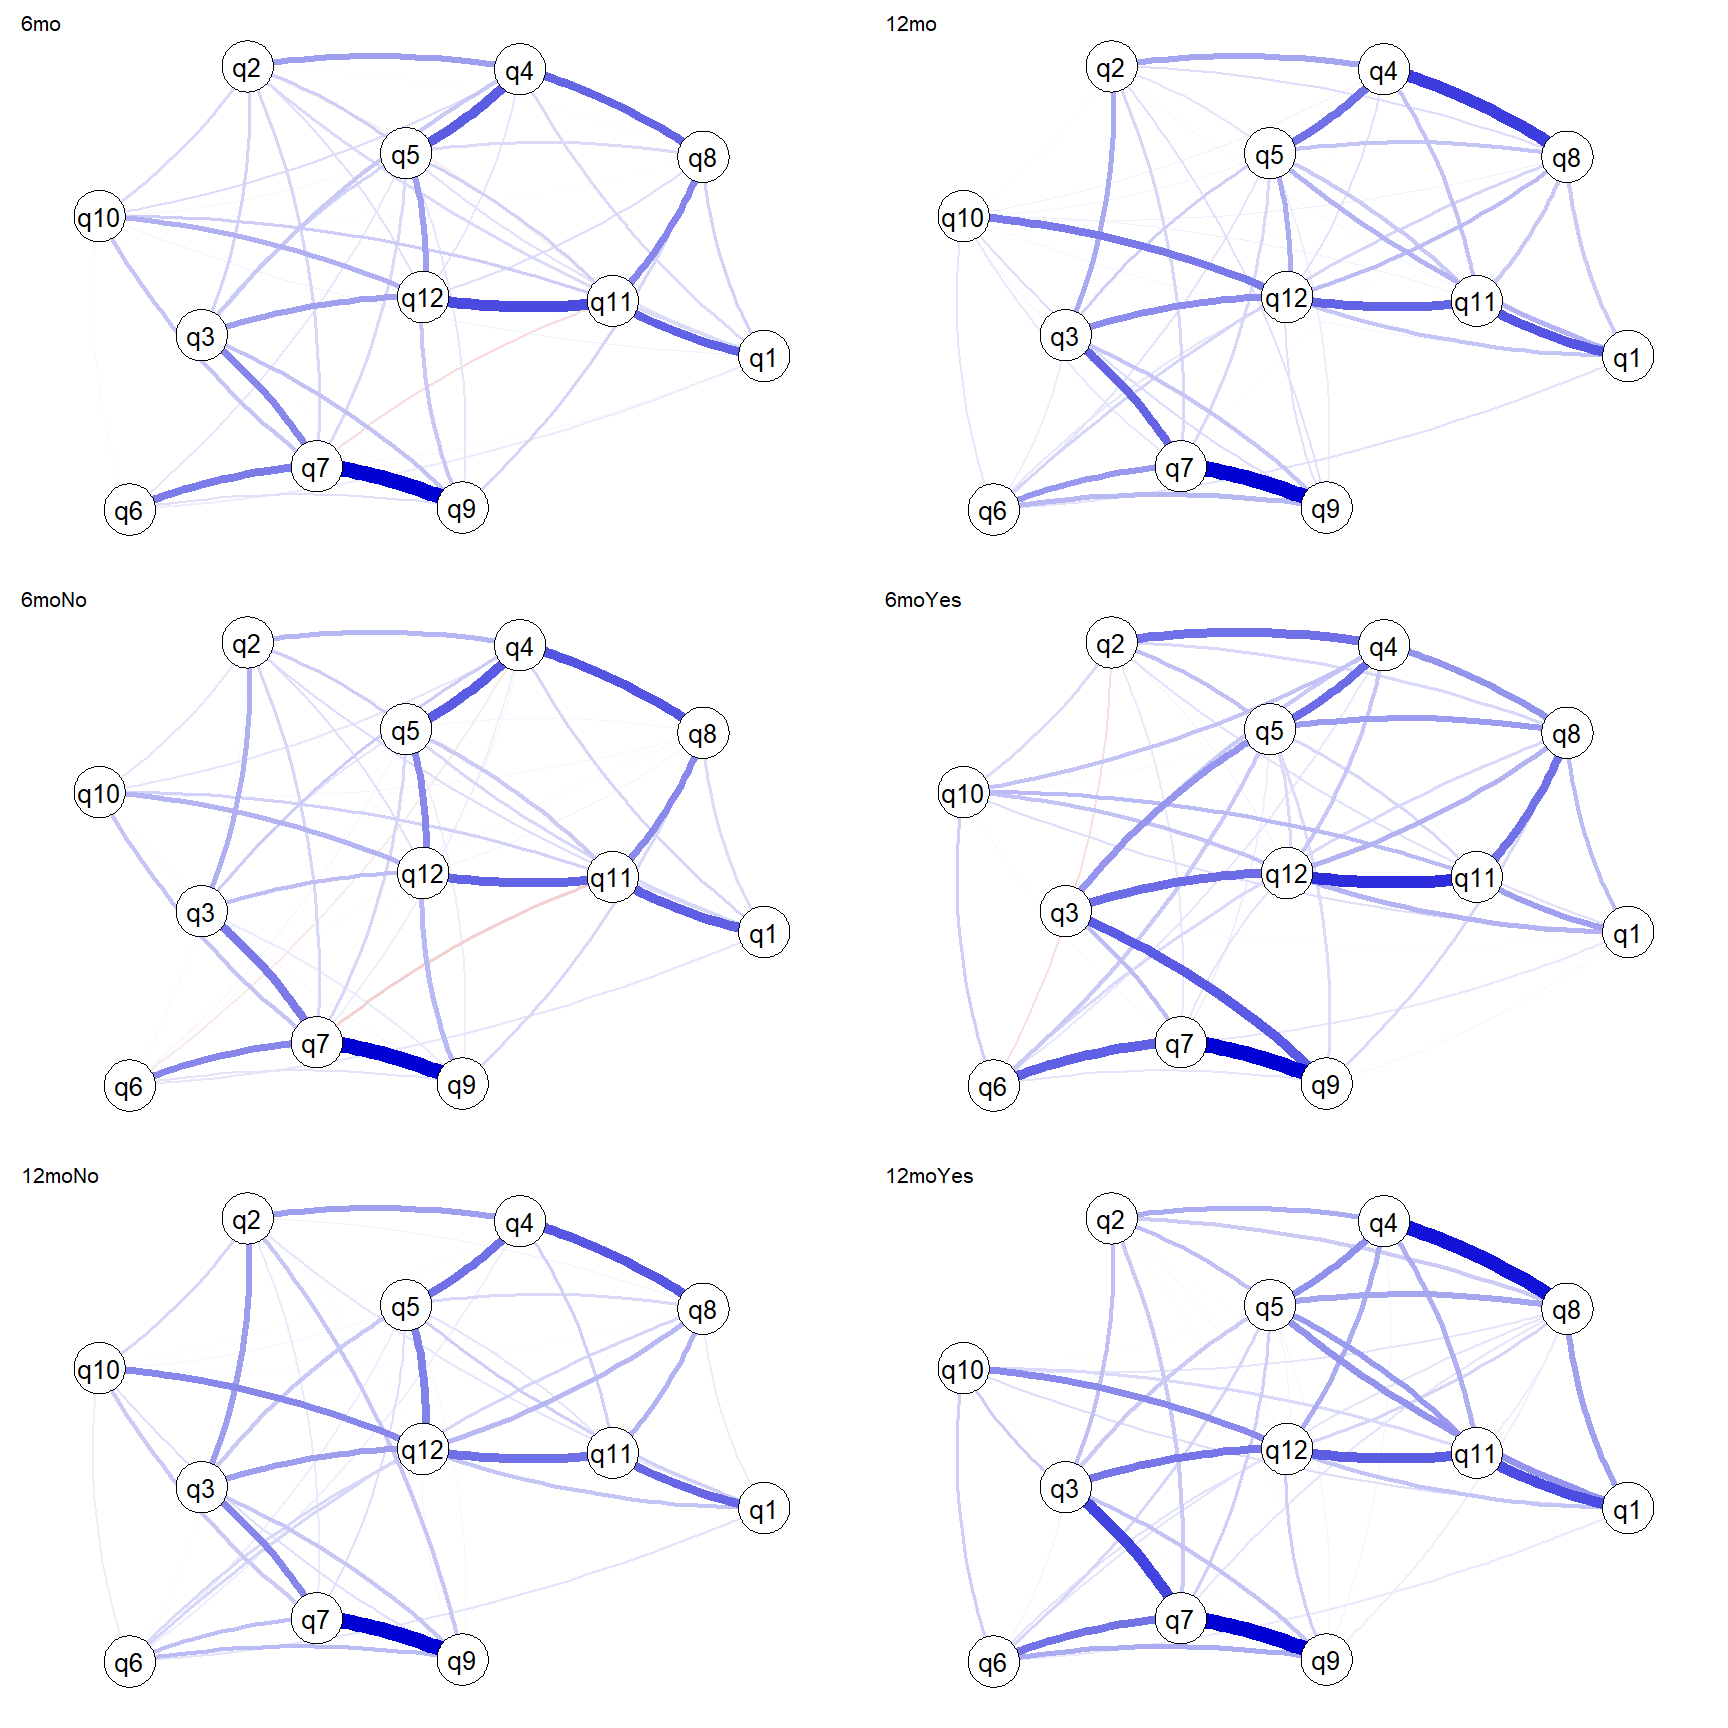
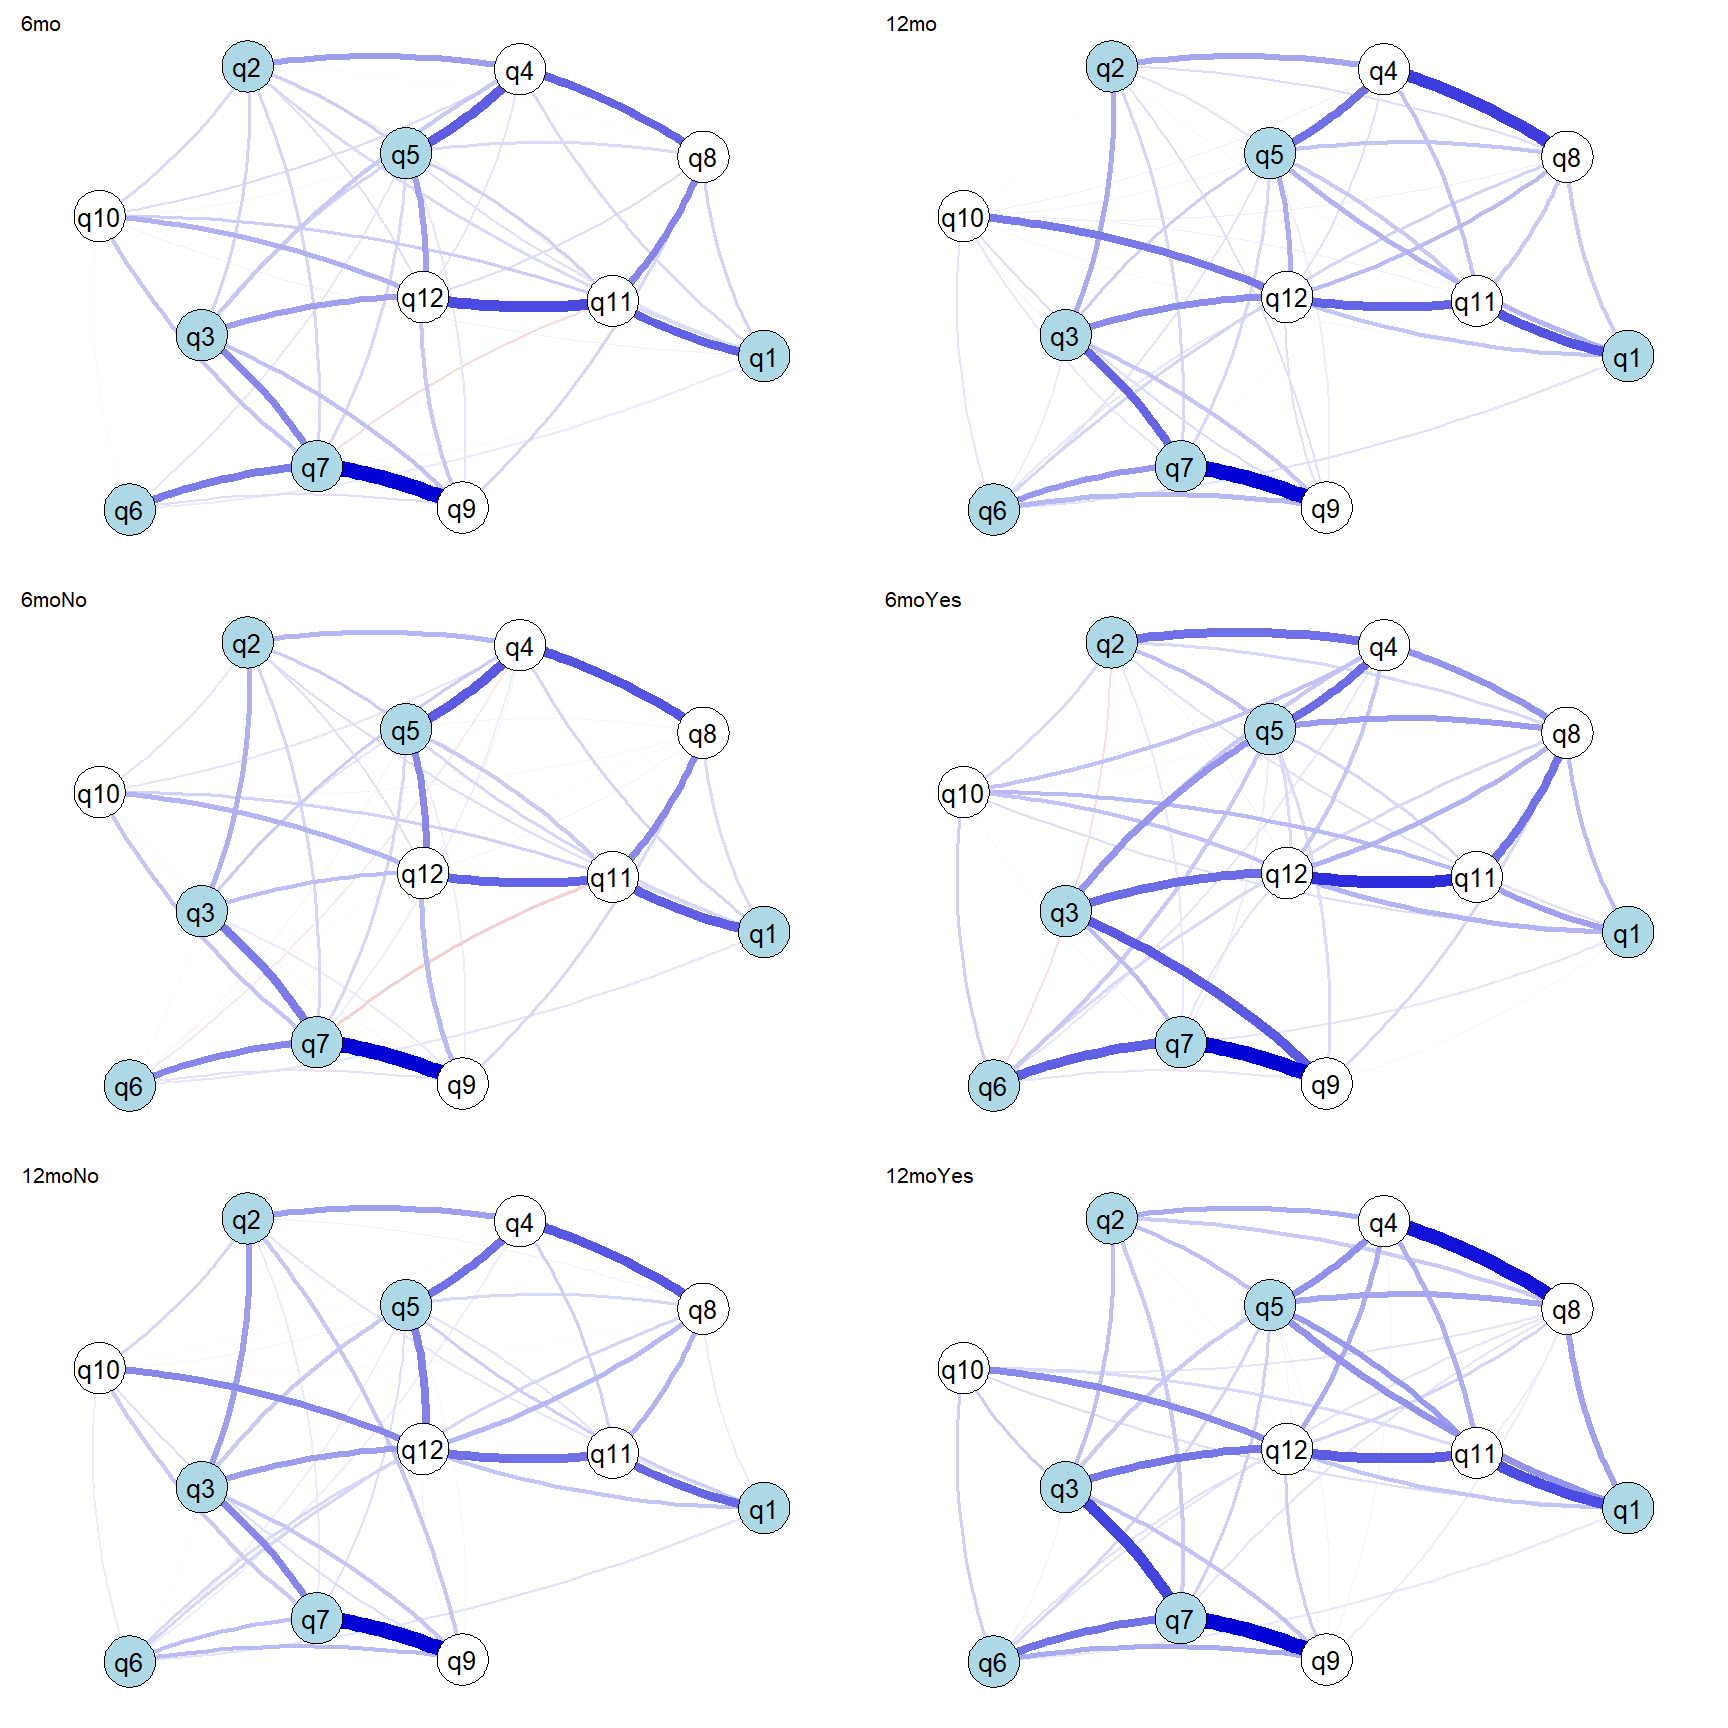
add color to nodes

diff --git a/docs/2-analysis.html b/docs/2-analysis.html
@@ -15,6 +15,7 @@
 
 <title>2-analysis</title>
 
+<script src="site_libs/header-attrs-2.6/header-attrs.js"></script>
 <script src="site_libs/jquery-1.11.3/jquery.min.js"></script>
 <meta name="viewport" content="width=device-width, initial-scale=1" />
 <link href="site_libs/bootstrap-3.3.5/css/cosmo.min.css" rel="stylesheet" />
@@ -37,6 +38,8 @@ div.section {
   padding-top: 12px;
 }
 </style>
+
+
 
 <style type="text/css">
   code{white-space: pre-wrap;}
@@ -417,7 +420,7 @@ div.tocify {
 <div class="tab-content">
 <div id="summary" class="tab-pane fade in active">
 <p>
-<strong>Last updated:</strong> 2021-02-23
+<strong>Last updated:</strong> 2021-04-20
 </p>
 <p>
 <strong>Checks:</strong> <span class="glyphicon glyphicon-ok text-success" aria-hidden="true"></span> 6 <span class="glyphicon glyphicon-exclamation-sign text-danger" aria-hidden="true"></span> 1
@@ -508,16 +511,16 @@ This reproducible <a href="http://rmarkdown.rstudio.com">R Markdown</a> analysis
 <div class="panel panel-default">
 <div class="panel-heading">
 <p class="panel-title">
-<a data-toggle="collapse" data-parent="#workflowr-checks" href="#strongRepositoryversionstrongahrefhttpsgithubcombernardliewACLRSILaTrobetree1b00161c4a99919fb20d30a8cdf81f1f628d6a38targetblank1b00161a"> <span class="glyphicon glyphicon-ok text-success" aria-hidden="true"></span> <strong>Repository version:</strong> <a href="https://github.com/bernard-liew/ACL-RSI-La-Trobe-/tree/1b00161c4a99919fb20d30a8cdf81f1f628d6a38" target="_blank">1b00161</a> </a>
+<a data-toggle="collapse" data-parent="#workflowr-checks" href="#strongRepositoryversionstrongahrefhttpsgithubcombernardliewACLRSILaTrobetree89ef5ec4deb29842442128011f89805f2752214ctargetblank89ef5eca"> <span class="glyphicon glyphicon-ok text-success" aria-hidden="true"></span> <strong>Repository version:</strong> <a href="https://github.com/bernard-liew/ACL-RSI-La-Trobe-/tree/89ef5ec4deb29842442128011f89805f2752214c" target="_blank">89ef5ec</a> </a>
 </p>
 </div>
[2 lines of base64/hex data omitted]
 <div class="panel-body">
 <p>
 Great! You are using Git for version control. Tracking code development and connecting the code version to the results is critical for reproducibility.
 </p>
 <p>
-The results in this page were generated with repository version <a href="https://github.com/bernard-liew/ACL-RSI-La-Trobe-/tree/1b00161c4a99919fb20d30a8cdf81f1f628d6a38" target="_blank">1b00161</a>. See the <em>Past versions</em> tab to see a history of the changes made to the R Markdown and HTML files.
+The results in this page were generated with repository version <a href="https://github.com/bernard-liew/ACL-RSI-La-Trobe-/tree/89ef5ec4deb29842442128011f89805f2752214c" target="_blank">89ef5ec</a>. See the <em>Past versions</em> tab to see a history of the changes made to the R Markdown and HTML files.
 </p>
 <p>
 Note that you need to be careful to ensure that all relevant files for the analysis have been committed to Git prior to generating the results (you can use <code>wflow_publish</code> or <code>wflow_git_commit</code>). workflowr only checks the R Markdown file, but you know if there are other scripts or data files that it depends on. Below is the status of the Git repository when the results were generated:
@@ -526,9 +529,7 @@ Note that you need to be careful to ensure that all relevant files for the analy
 Ignored files:
     Ignored:    .Rhistory
     Ignored:    .Rproj.user/
-
-Untracked files:
-    Untracked:  output/nw_res.RDS
+    Ignored:    manuscript/
 
 Unstaged changes:
     Modified:   analysis/2-analysis.Rmd
@@ -570,6 +571,57 @@ Message
 </tr>
 </thead>
 <tbody>
+<tr>
+<td>
+Rmd
+</td>
+<td>
+<a href="https://github.com/bernard-liew/ACL-RSI-La-Trobe-/blob/89ef5ec4deb29842442128011f89805f2752214c/analysis/2-analysis.Rmd" target="_blank">89ef5ec</a>
+</td>
+<td>
+Bernard
+</td>
+<td>
+2021-04-20
+</td>
+<td>
+tidied codes
+</td>
+</tr>
+<tr>
+<td>
+Rmd
+</td>
+<td>
+<a href="https://github.com/bernard-liew/ACL-RSI-La-Trobe-/blob/0593a54f2cb5b3bd394b1e7cf0d3c202c10c2cc3/analysis/2-analysis.Rmd" target="_blank">0593a54</a>
+</td>
+<td>
+bernard-liew
+</td>
+<td>
+2021-02-23
+</td>
+<td>
+updated network analysis, removed cluster
+</td>
+</tr>
+<tr>
+<td>
+html
+</td>
+<td>
+<a href="https://rawcdn.githack.com/bernard-liew/ACL-RSI-La-Trobe-/0593a54f2cb5b3bd394b1e7cf0d3c202c10c2cc3/docs/2-analysis.html" target="_blank">0593a54</a>
+</td>
+<td>
+bernard-liew
+</td>
+<td>
+2021-02-23
+</td>
+<td>
+updated network analysis, removed cluster
+</td>
+</tr>
 <tr>
 <td>
 Rmd
@@ -758,12 +810,18 @@ saveRDS(res,
 <p>The thickness of the edges indicate the magnitude of correlation.</p>
 <pre class="r"><code>par(mfrow= c(3,2))
 # Visualize network
-p1 &lt;- plot (res$nw[[1]], title = res$id[[1]], label.cex = 1.5, vsize = 10, curve = 0.4, curveAll = TRUE)
-plot (res$nw[[2]], title = res$id[[2]], layout = p1$layout, label.cex = 1.5, vsize = 10, curve = 0.4, curveAll = TRUE)
-plot (res$nw[[3]], title = res$id[[3]], layout = p1$layout, label.cex = 1.5, vsize = 10, curve = 0.4, curveAll = TRUE)
-plot (res$nw[[4]], title = res$id[[4]], layout = p1$layout, label.cex = 1.5, vsize = 10, curve = 0.4, curveAll = TRUE)
-plot (res$nw[[5]], title = res$id[[5]], layout = p1$layout, label.cex = 1.5, vsize = 10, curve = 0.4, curveAll = TRUE)
-plot (res$nw[[6]], title = res$id[[6]], layout = p1$layout, label.cex = 1.5, vsize = 10, curve = 0.4, curveAll = TRUE)</code></pre>
+p1 &lt;- plot (res$nw[[1]], title = res$id[[1]], label.cex = 1.5, 
+            vsize = 10, curve = 0.4, curveAll = TRUE, color = node_col)
+plot (res$nw[[2]], title = res$id[[2]], layout = p1$layout, label.cex = 1.5,
+      vsize = 10, curve = 0.4, curveAll = TRUE, color = node_col)
+plot (res$nw[[3]], title = res$id[[3]], layout = p1$layout, label.cex = 1.5, 
+      vsize = 10, curve = 0.4, curveAll = TRUE, color = node_col)
+plot (res$nw[[4]], title = res$id[[4]], layout = p1$layout, label.cex = 1.5, 
+      vsize = 10, curve = 0.4, curveAll = TRUE, color = node_col)
+plot (res$nw[[5]], title = res$id[[5]], layout = p1$layout, label.cex = 1.5, 
+      vsize = 10, curve = 0.4, curveAll = TRUE, color = node_col)
+plot (res$nw[[6]], title = res$id[[6]], layout = p1$layout, label.cex = 1.5, 
+      vsize = 10, curve = 0.4, curveAll = TRUE, color = node_col)</code></pre>
 <p><img src="figure/2-analysis.Rmd/unnamed-chunk-7-1.png" width="864" style="display: block; margin: auto;" /></p>
 </div>
 <div id="plot-edge-weights-stability" class="section level3">
@@ -829,7 +887,6 @@ cowplot::plot_grid(plotlist = s_fig, labels = res$id, vjust = 1, hjust = 0, ncol
              test.centrality = TRUE,
              p.adjust.methods = &quot;none&quot;,
              centrality = c(&quot;closeness&quot;, &quot;strength&quot;, &quot;betweenness&quot;))</code></pre>
-<p>The networks between the 6th and 12th month are not significantly different (p = 0.688).</p>
 <div id="edges-which-are-different-between-networks" class="section level4">
 <h4>Edges which are different between networks</h4>
 <pre class="r"><code>pair_res$einv.pvals %&gt;%
@@ -859,7 +916,6 @@ q6     0.918    0.009           1</code></pre>
              test.centrality = TRUE,
              p.adjust.methods = &quot;none&quot;,
              centrality = c(&quot;closeness&quot;, &quot;strength&quot;, &quot;betweenness&quot;))</code></pre>
-<p>The networks are not significantly different (p = 0.202).</p>
 <div id="edges-which-are-different-between-networks-1" class="section level4">
 <h4>Edges which are different between networks</h4>
 <pre class="r"><code>pair_res$einv.pvals %&gt;%
@@ -893,7 +949,6 @@ q8     0.853    0.042       0.406</code></pre>
              test.centrality = TRUE,
              p.adjust.methods = &quot;none&quot;,
              centrality = c(&quot;closeness&quot;, &quot;strength&quot;, &quot;betweenness&quot;))</code></pre>
-<p>The networks are not significantly different (p = 0.36).</p>
 <div id="edges-which-are-different-between-networks-2" class="section level4">
 <h4>Edges which are different between networks</h4>
 <pre class="r"><code>pair_res$einv.pvals %&gt;%
@@ -950,7 +1005,7 @@ loaded via a namespace (and not attached):
  [10] highr_0.8            knitr_1.30           rstudioapi_0.13     
  [13] stats4_4.0.2         listenv_0.8.0        labeling_0.4.2      
  [16] git2r_0.27.1         mnormt_2.0.2         farver_2.0.3        
- [19] rprojroot_2.0.2      parallelly_1.23.0    vctrs_0.3.6         
+ [19] rprojroot_2.0.2      parallelly_1.24.0    vctrs_0.3.6         
  [22] generics_0.1.0       xfun_0.20            R6_2.5.0            
  [25] doParallel_1.0.16    smacof_2.1-1         reshape_0.8.8       
  [28] assertthat_0.2.1     promises_1.1.1       scales_1.1.1        
@@ -959,13 +1014,13 @@ loaded via a namespace (and not attached):
  [37] splines_4.0.2        wordcloud_2.6        broom_0.7.4.9000    
  [40] checkmate_2.0.0      yaml_2.2.1           reshape2_1.4.4      
  [43] abind_1.4-5          modelr_0.1.8         d3Network_0.5.2.1   
- [46] backports_1.2.0      httpuv_1.5.4         Hmisc_4.4-2         
+ [46] backports_1.2.1      httpuv_1.5.4         Hmisc_4.4-2         
  [49] tools_4.0.2          psych_2.0.12         lavaan_0.6-7        
  [52] ellipsis_0.3.1       RColorBrewer_1.1-2   polynom_1.4-0       
  [55] Rcpp_1.0.6           plyr_1.8.6           base64enc_0.1-3     
  [58] rpart_4.1-15         pbapply_1.4-3        haven_2.3.1         
  [61] cluster_2.1.0        fs_1.5.0             survey_4.0          
- [64] magrittr_2.0.1       data.table_1.13.6    openxlsx_4.2.3      
+ [64] magrittr_2.0.1       data.table_1.14.0    openxlsx_4.2.3      
  [67] reprex_0.3.0         tmvnsim_1.0-2        mvtnorm_1.1-1       
  [70] matrixcalc_1.0-3     whisker_0.4          hms_0.5.3           
  [73] evaluate_0.14        rio_0.5.16           jpeg_0.1-8.1        
@@ -1012,6 +1067,8 @@ footer is added to webpages before the MathJax javascript. -->
     "HTML-CSS": { availableFonts: ["TeX"] }
   });
 </script>
+
+
 
 
 </div>

diff --git a/docs/index.html b/docs/index.html
@@ -13,6 +13,7 @@
 
 <title>Home</title>
 
+<script src="site_libs/header-attrs-2.6/header-attrs.js"></script>
 <script src="site_libs/jquery-1.11.3/jquery.min.js"></script>
 <meta name="viewport" content="width=device-width, initial-scale=1" />
 <link href="site_libs/bootstrap-3.3.5/css/cosmo.min.css" rel="stylesheet" />
@@ -30,6 +31,8 @@ div.section {
   padding-top: 12px;
 }
 </style>
+
+
 
 <style type="text/css">
   code{white-space: pre-wrap;}
@@ -335,7 +338,7 @@ $(document).ready(function () {
 <div class="tab-content">
 <div id="summary" class="tab-pane fade in active">
 <p>
-<strong>Last updated:</strong> 2021-02-19
+<strong>Last updated:</strong> 2021-04-20
 </p>
 <p>
 <strong>Checks:</strong> <span class="glyphicon glyphicon-ok text-success" aria-hidden="true"></span> 2 <span class="glyphicon glyphicon-exclamation-sign text-danger" aria-hidden="true"></span> 0
@@ -366,23 +369,28 @@ This reproducible <a href="http://rmarkdown.rstudio.com">R Markdown</a> analysis
 <div class="panel panel-default">
 <div class="panel-heading">
 <p class="panel-title">
-<a data-toggle="collapse" data-parent="#workflowr-checks" href="#strongRepositoryversionstrongahrefhttpsgithubcombernardliewACLRSILaTrobetree53bd51fbfbf61eafd1a7ba0791c8157bdbc0ea18targetblank53bd51fa"> <span class="glyphicon glyphicon-ok text-success" aria-hidden="true"></span> <strong>Repository version:</strong> <a href="https://github.com/bernard-liew/ACL-RSI-La-Trobe-/tree/53bd51fbfbf61eafd1a7ba0791c8157bdbc0ea18" target="_blank">53bd51f</a> </a>
+<a data-toggle="collapse" data-parent="#workflowr-checks" href="#strongRepositoryversionstrongahrefhttpsgithubcombernardliewACLRSILaTrobetree89ef5ec4deb29842442128011f89805f2752214ctargetblank89ef5eca"> <span class="glyphicon glyphicon-ok text-success" aria-hidden="true"></span> <strong>Repository version:</strong> <a href="https://github.com/bernard-liew/ACL-RSI-La-Trobe-/tree/89ef5ec4deb29842442128011f89805f2752214c" target="_blank">89ef5ec</a> </a>
 </p>
 </div>
[2 lines of base64/hex data omitted]
 <div class="panel-body">
 <p>
 Great! You are using Git for version control. Tracking code development and connecting the code version to the results is critical for reproducibility.
 </p>
 <p>
-The results in this page were generated with repository version <a href="https://github.com/bernard-liew/ACL-RSI-La-Trobe-/tree/53bd51fbfbf61eafd1a7ba0791c8157bdbc0ea18" target="_blank">53bd51f</a>. See the <em>Past versions</em> tab to see a history of the changes made to the R Markdown and HTML files.
+The results in this page were generated with repository version <a href="https://github.com/bernard-liew/ACL-RSI-La-Trobe-/tree/89ef5ec4deb29842442128011f89805f2752214c" target="_blank">89ef5ec</a>. See the <em>Past versions</em> tab to see a history of the changes made to the R Markdown and HTML files.
 </p>
 <p>
 Note that you need to be careful to ensure that all relevant files for the analysis have been committed to Git prior to generating the results (you can use <code>wflow_publish</code> or <code>wflow_git_commit</code>). workflowr only checks the R Markdown file, but you know if there are other scripts or data files that it depends on. Below is the status of the Git repository when the results were generated:
 </p>
 <pre><code>
 Ignored files:
+    Ignored:    .Rhistory
     Ignored:    .Rproj.user/
+    Ignored:    manuscript/
+
+Unstaged changes:
+    Modified:   analysis/2-analysis.Rmd
 
 </code></pre>
 <p>
@@ -421,6 +429,23 @@ Message
 </tr>
 </thead>
 <tbody>
+<tr>
+<td>
+html
+</td>
+<td>
+<a href="https://rawcdn.githack.com/bernard-liew/ACL-RSI-La-Trobe-/aeab96b225ddd986901f42449885cf8c1387f992/docs/index.html" target="_blank">aeab96b</a>
+</td>
+<td>
+bernard-liew
+</td>
+<td>
+2021-02-19
+</td>
+<td>
+Build site.
+</td>
+</tr>
 <tr>
 <td>
 Rmd
@@ -545,6 +570,8 @@ footer is added to webpages before the MathJax javascript. -->
     "HTML-CSS": { availableFonts: ["TeX"] }
   });
 </script>
+
+
 
 
 

diff --git a/docs/site_libs/header-attrs-2.6/header-attrs.js b/docs/site_libs/header-attrs-2.6/header-attrs.js
@@ -1,0 +1,12 @@
+// Pandoc 2.9 adds attributes on both header and div. We remove the former (to
+// be compatible with the behavior of Pandoc < 2.8).
+document.addEventListener('DOMContentLoaded', function(e) {
+  var hs = document.querySelectorAll("div.section[class*='level'] > :first-child");
+  var i, h, a;
+  for (i = 0; i < hs.length; i++) {
+    h = hs[i];
+    if (!/^h[1-6]$/i.test(h.tagName)) continue;  // it should be a header h1-h6
+    a = h.attributes;
+    while (a.length > 0) h.removeAttribute(a[0].name);
+  }
+});
